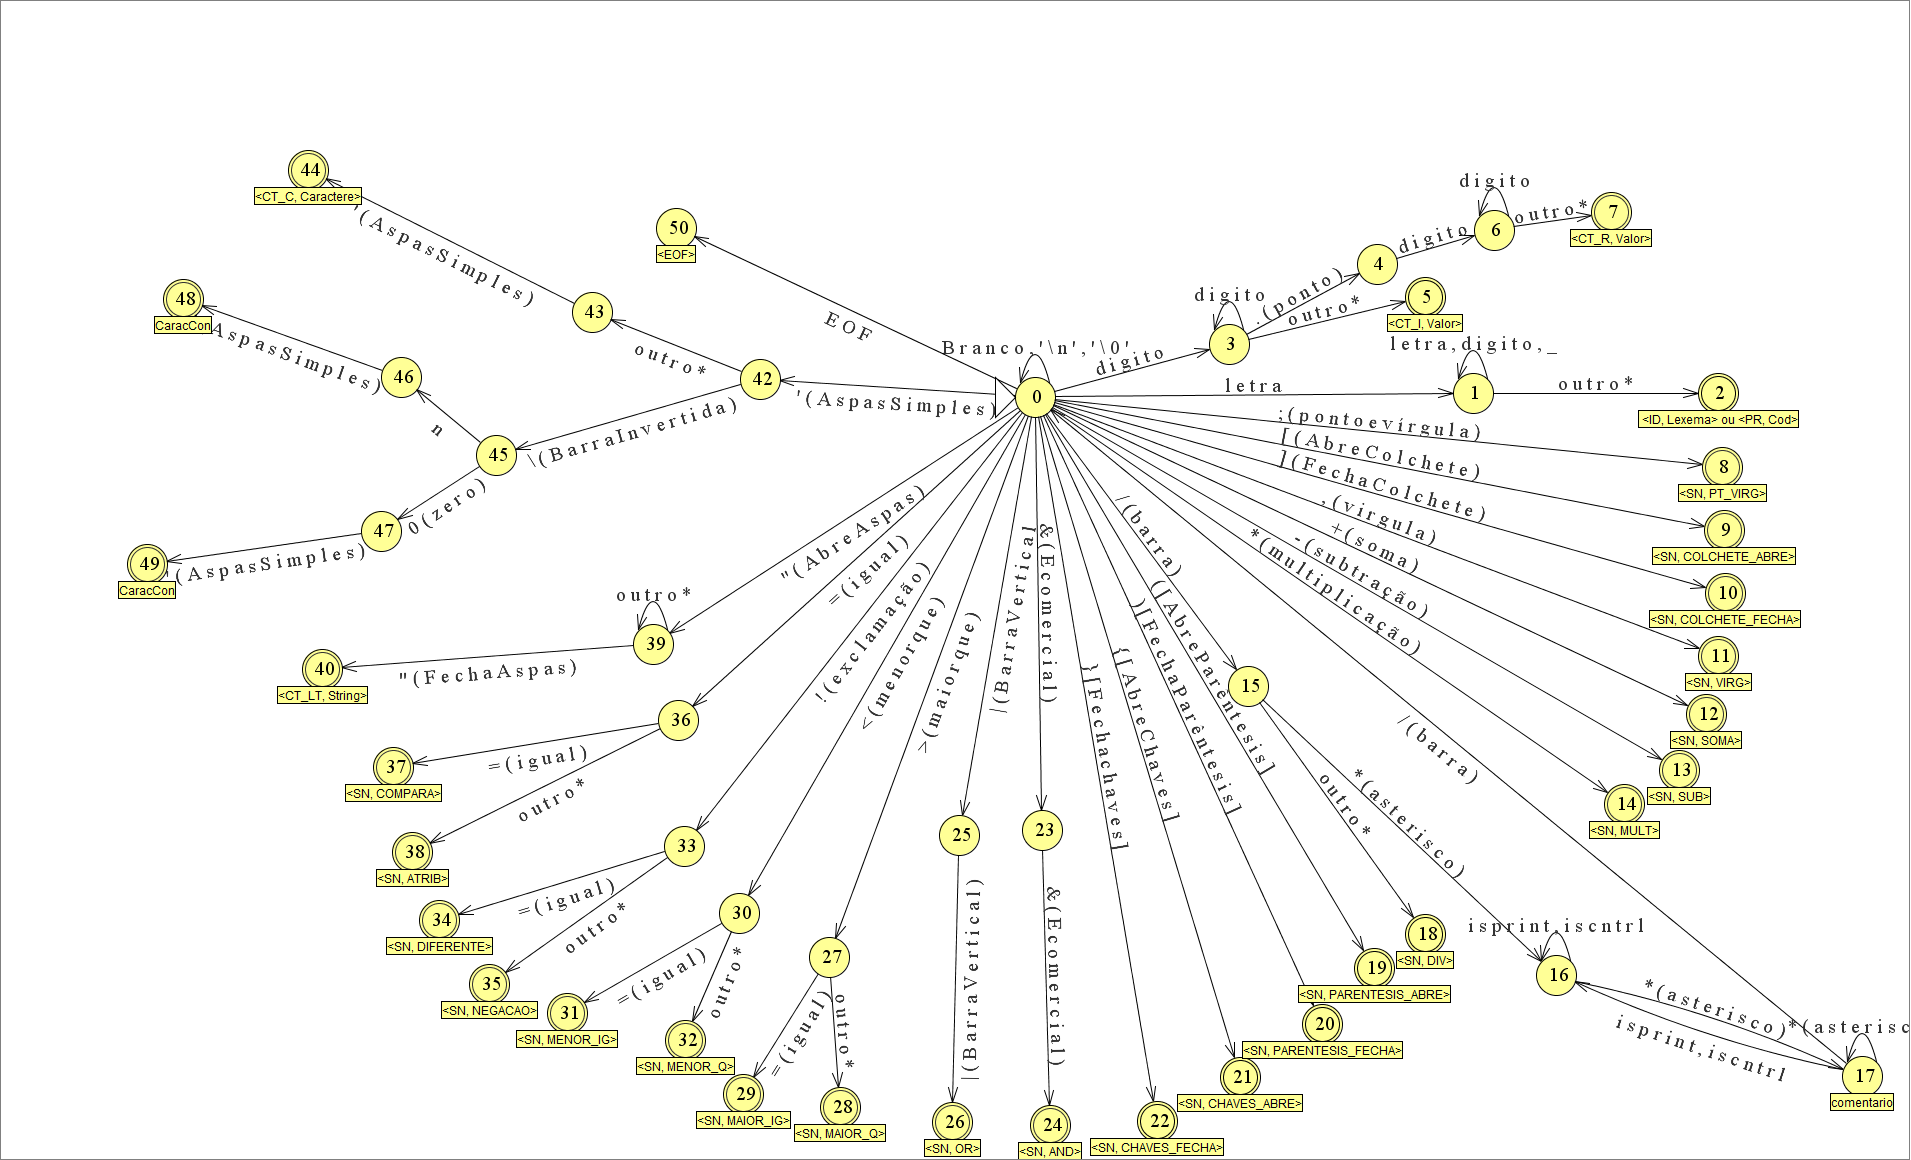
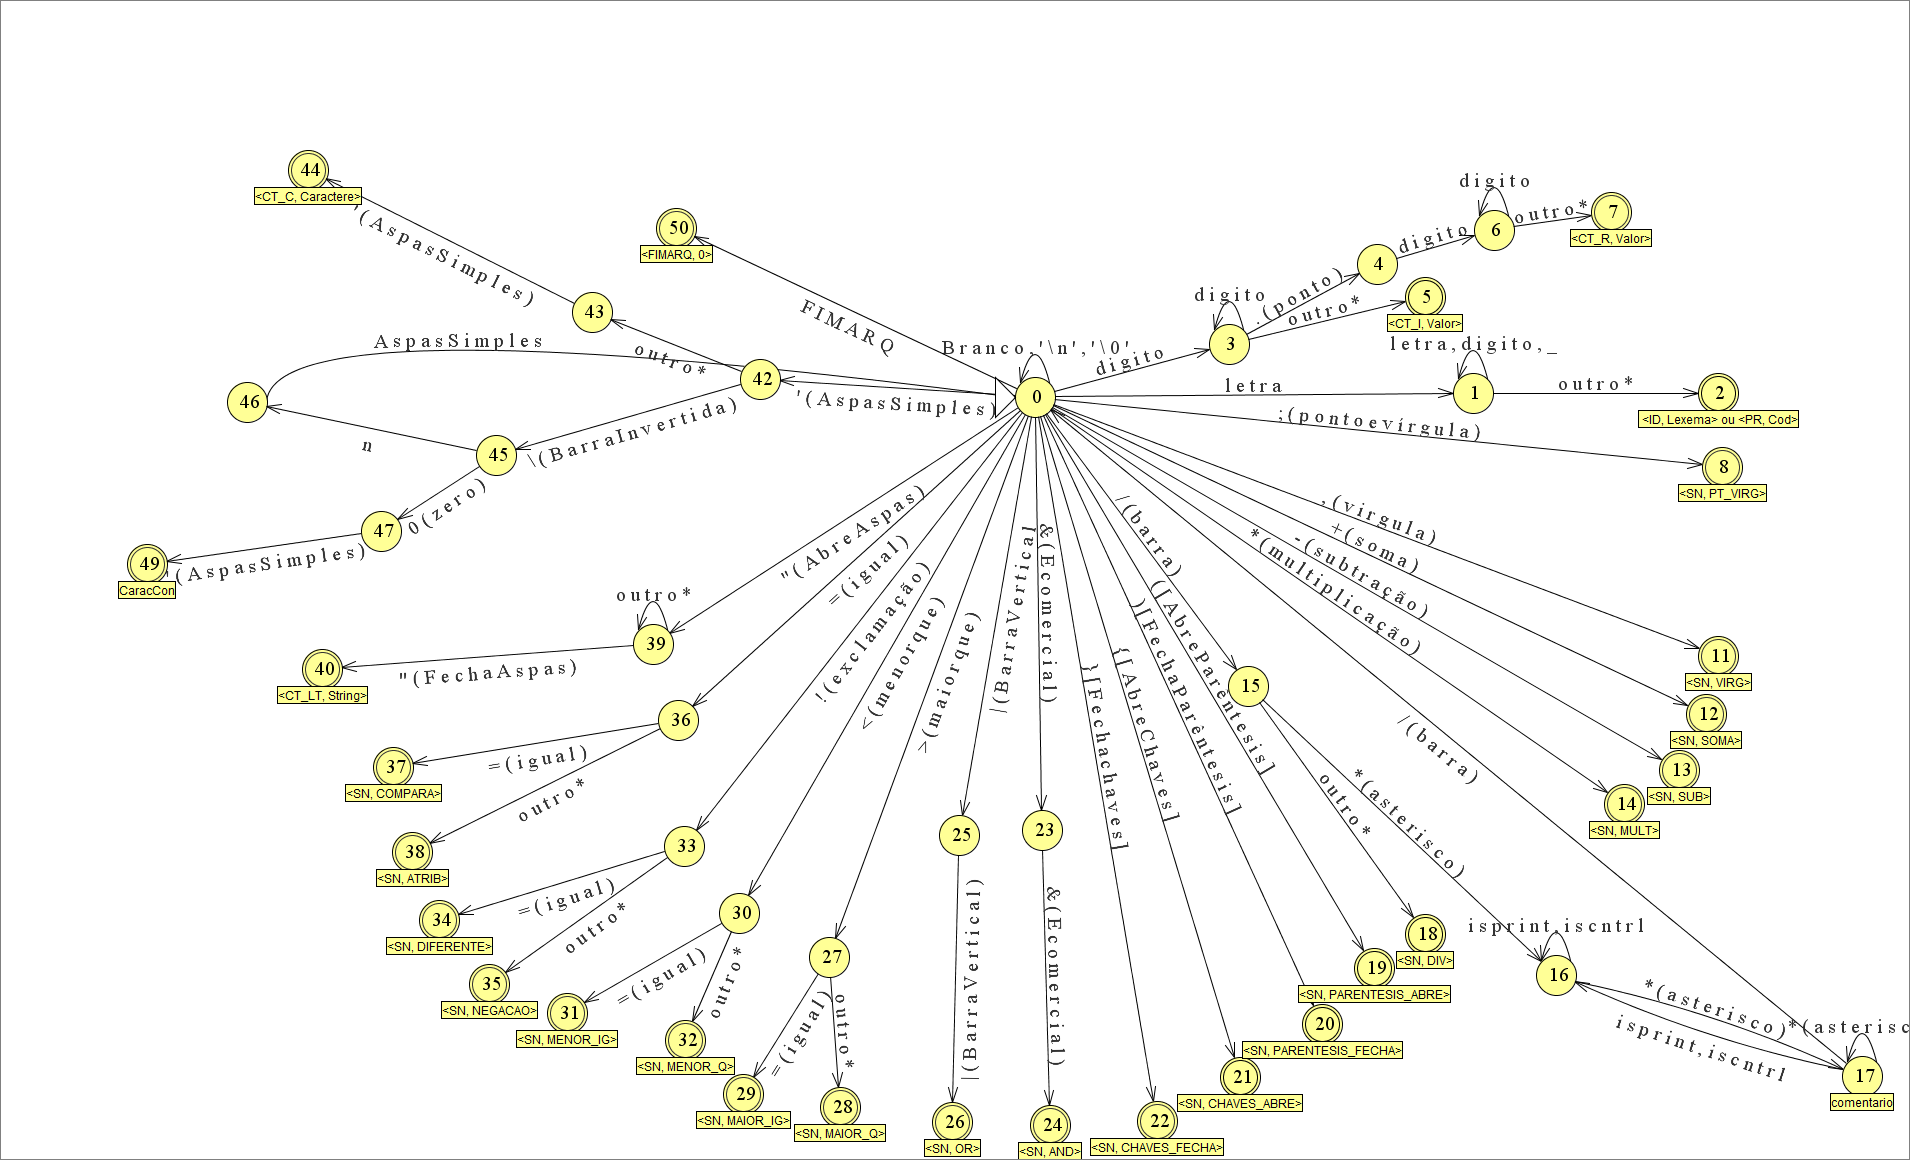
Add files via upload

diff --git a/analex.h b/analex.h
@@ -52,8 +52,6 @@ typedef enum{
     PARENTESIS_FECHA,
     CHAVES_ABRE,
     CHAVES_FECHA,
-    COLCHETES_ABRE,
-    COLCHETES_FECHA,
     AND,
     OR,
     MAIOR_Q,
@@ -78,8 +76,6 @@ char TABELASINAIS[22][10] = {
     ")",
     "{",
     "}",
-    "[",
-    "]",
     "&&",
     "||",
     ">",
